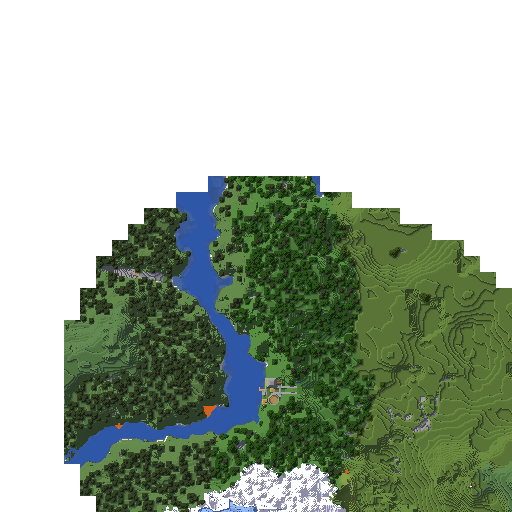
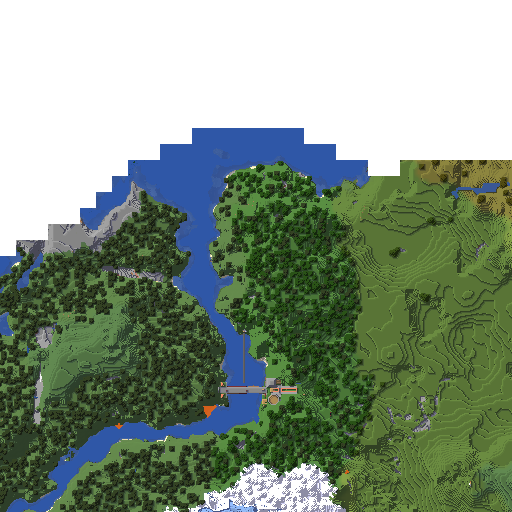
more data

diff --git a/src/routes/+page.svelte b/src/routes/+page.svelte
@@ -3,51 +3,64 @@
 	import { onMount } from 'svelte';
 
 	let isDragging = false;
-  let startX = 0;
-  let startY = 0;
-  let currentX = 0;
-  let currentY = 0;
-  let offsetX = 0;
-  let offsetY = 0;
+	let startX = 0;
+	let startY = 0;
+	let currentX = 0;
+	let currentY = 0;
+	let offsetX = 0;
+	let offsetY = 0;
+	let zoom = 10;
+	let x = 0;
+	let y = 0;
+	let initX = 0;
+	let initY = 0;
 
-  const handleMouseDown = (event) => {
-    isDragging = true;
-    startX = event.clientX;
-    startY = event.clientY;
-    event.preventDefault();
-  };
+	const handleMouseDown = (event) => {
+		isDragging = true;
+		startX = event.clientX;
+		startY = event.clientY;
+		initX = x;
+		initY = y;
+		event.preventDefault();
+	};
 
-  const handleMouseMove = (event) => {
-    if (isDragging) {
-      currentX = event.clientX;
-      currentY = event.clientY;
-      offsetX = currentX - startX;
-      offsetY = currentY - startY;
-      console.log(`Dragging: (${offsetX}, ${offsetY})`);
-    }
-  };
+	const handleMouseMove = (event) => {
+		if (isDragging) {
+			currentX = event.clientX;
+			currentY = event.clientY;
+			offsetX = currentX - startX;
+			offsetY = currentY - startY;
+			x = initX + offsetX;
+			y = initY + offsetY;
+		}
+	};
 
-  const handleMouseUp = () => {
-    isDragging = false;
-  };
-  let scrollY = 0;
+	const handleMouseUp = () => {
+		isDragging = false;
+	};
 
-const handleScroll = (event) => {
-console.log(event)
-  scrollY = window.scrollY;
-  console.log(`Scroll position: ${scrollY}`);
-};
+	const handleScroll = (event) => {
+		if (event.deltaY < 0) {
+			zoom *= 1.1;
+		} else {
+			zoom /= 1.1;
+		}
+	};
+
 	onMount(() => {
-    window.addEventListener('mousemove', handleMouseMove);
-    window.addEventListener('mouseup', handleMouseUp);
-    window.addEventListener('scroll', handleScroll);
-	})
-  
+		x = window.innerWidth / 2 + 300;
+		y = window.innerHeight / 2;
+
+		window.addEventListener('mousemove', handleMouseMove);
+		window.addEventListener('mouseup', handleMouseUp);
+		window.addEventListener('wheel', handleScroll);
+	});
 </script>
+
 <!-- YOU CAN DELETE EVERYTHING IN THIS PAGE -->
 
 <div class="w-screen h-screen mx-auto flex justify-center items-center overflow-hidden" on:mousedown={handleMouseDown}>
-	<div class="fixed scale-[3]" style="left: {currentX}px; top: {currentY}px">
-	<Map />
-</div>
+	<div class="fixed" style="transform: scale({zoom}); left: {x}px; top: {y}px;">
+		<Map />
+	</div>
 </div>
